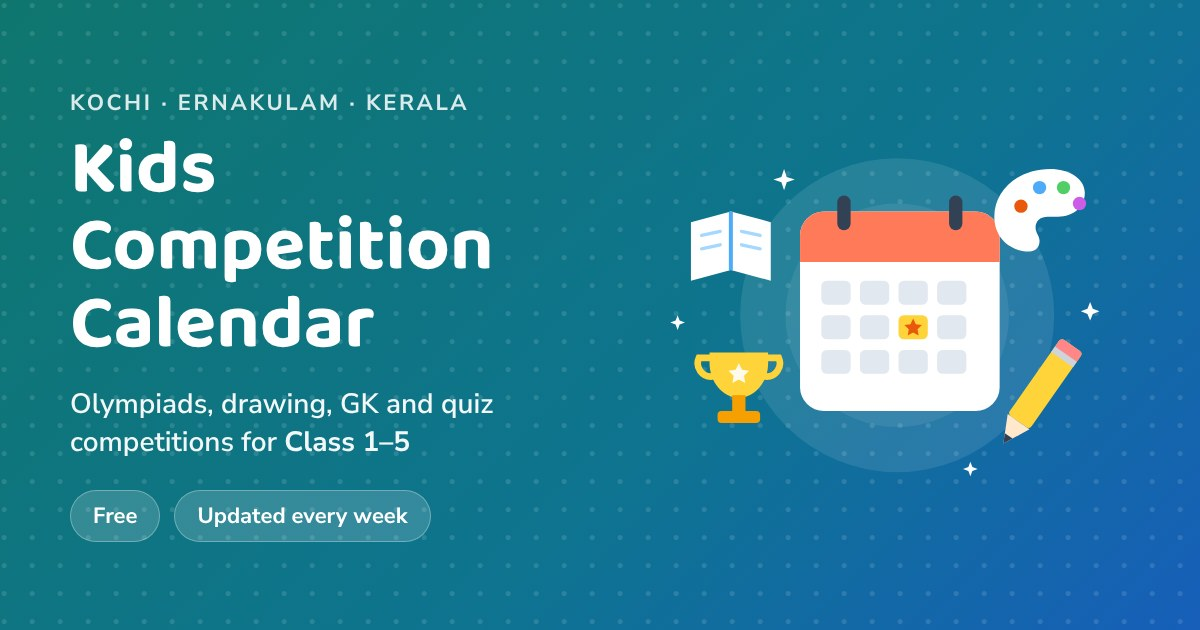
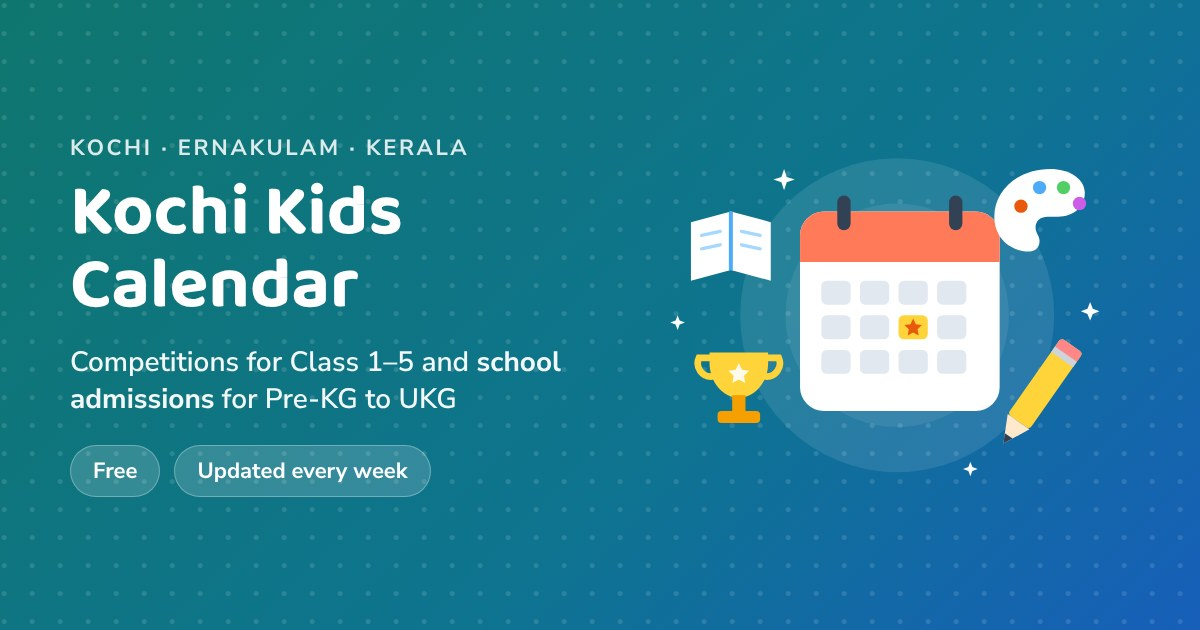
Rename site to Kochi Kids Calendar; separate link preview for admissions
- Site name shown as 'Kochi Kids Calendar' in a top bar on both pages;
  page headings are now 'Kids Competitions' and 'School Admissions'
- New og-image.jpg with the new name, and og-admissions.jpg (school
  picture, 'School Admissions in Kochi') used by admissions.html, so
  WhatsApp shows the right card for each page
- Titles, descriptions, footer, calendar/WhatsApp texts updated
- Repository and web address unchanged so shared links keep working
  (noted in README and CLAUDE.md)

Claude-Session: https://claude.ai/code/session_01GNwjeTZDbv7VsTgUQV2vTH

Changed region(s): [[0.0617, 0.2111, 0.4625, 0.8746], [0.0617, 0.1508, 0.4008, 0.181]]

diff --git a/index.html b/index.html
@@ -3,20 +3,20 @@
 <head>
   <meta charset="UTF-8">
   <meta name="viewport" content="width=device-width, initial-scale=1">
-  <title>Kids Competition Calendar – Kochi</title>
-  <meta name="description" content="Upcoming competitions for Class 1–5 students in Kochi, Kerala: Olympiads, scholarship tests, drawing, GK and quiz contests.">
+  <title>Kochi Kids Calendar – Competitions for Class 1–5</title>
+  <meta name="description" content="Kochi Kids Calendar: competitions for Class 1–5 (Olympiads, drawing, GK, quiz) and school admissions for Pre-KG to UKG in Kochi, Kerala.">
   <meta name="theme-color" content="#0f766e">
   <!-- Preview shown when the link is shared on WhatsApp, Facebook, Telegram etc. -->
   <meta property="og:type" content="website">
-  <meta property="og:site_name" content="Kids Competition Calendar">
-  <meta property="og:title" content="Kids Competition Calendar – Kochi">
-  <meta property="og:description" content="Olympiads, drawing, GK and quiz competitions for Class 1–5 in Kochi, with dates, fees and how to register. Free, updated every week.">
+  <meta property="og:site_name" content="Kochi Kids Calendar">
+  <meta property="og:title" content="Kochi Kids Calendar – Competitions for Class 1–5">
+  <meta property="og:description" content="Competitions for Class 1–5 and school admissions (Pre-KG to UKG) in Kochi — dates, fees, age rules and how to register. Free, updated every week.">
   <meta property="og:url" content="https://avinash-singh-1987.github.io/kids-competition-calendar/">
   <meta property="og:image" content="https://avinash-singh-1987.github.io/kids-competition-calendar/og-image.jpg">
   <meta property="og:image:type" content="image/jpeg">
   <meta property="og:image:width" content="1200">
   <meta property="og:image:height" content="630">
-  <meta property="og:image:alt" content="Kids Competition Calendar – Olympiads, drawing, GK and quiz competitions for Class 1–5 in Kochi">
+  <meta property="og:image:alt" content="Kochi Kids Calendar – competitions and school admissions for young children in Kochi">
   <meta name="twitter:card" content="summary_large_image">
   <link rel="preconnect" href="https://fonts.googleapis.com">
   <link rel="preconnect" href="https://fonts.gstatic.com" crossorigin>
@@ -26,13 +26,14 @@
 <body>
   <header class="hero">
     <nav class="wrap tabs" aria-label="Sections">
+      <a class="brand" href="./">Kochi Kids Calendar</a>
         <a href="./" aria-current="page">Competitions</a>
         <a href="admissions.html">School admissions</a>
     </nav>
     <div class="wrap hero-inner">
       <div class="hero-text">
         <p class="eyebrow">Kochi · Ernakulam · Kerala</p>
-        <h1>Kids Competition Calendar</h1>
+        <h1>Kids Competitions</h1>
         <p class="tagline">Olympiads, scholarship tests, drawing, GK and quiz competitions for <strong>Class 1–5</strong> — all in one place.</p>
         <ul class="hero-stats" aria-label="Summary">
           <li><span id="stat-total">–</span> competitions</li>
@@ -171,7 +172,7 @@
   <footer class="site-footer">
     <div class="wrap footer-inner">
       <div class="footer-icon" aria-hidden="true">✏</div>
-      <p>Kids Competition Calendar · A free guide for parents in Kochi, Kerala</p>
+      <p>Kochi Kids Calendar · A free guide for parents in Kochi, Kerala</p>
     </div>
   </footer>
 

diff --git a/admissions.html b/admissions.html
@@ -3,20 +3,20 @@
 <head>
   <meta charset="UTF-8">
   <meta name="viewport" content="width=device-width, initial-scale=1">
-  <title>School Admissions – Kochi | Kids Competition Calendar</title>
+  <title>School Admissions – Kochi Kids Calendar</title>
   <meta name="description" content="When do popular Kochi schools open Pre-KG, LKG and KG admissions, and what age rules apply? Check when your child can join.">
   <meta name="theme-color" content="#0f766e">
   <!-- Preview shown when the link is shared on WhatsApp, Facebook, Telegram etc. -->
   <meta property="og:type" content="website">
-  <meta property="og:site_name" content="Kids Competition Calendar">
-  <meta property="og:title" content="School Admissions – Kochi">
+  <meta property="og:site_name" content="Kochi Kids Calendar">
+  <meta property="og:title" content="School Admissions in Kochi – Pre-KG, LKG, UKG">
   <meta property="og:description" content="Admission months and age rules for popular Kochi schools, and a checker that tells you when your child can join. Free.">
   <meta property="og:url" content="https://avinash-singh-1987.github.io/kids-competition-calendar/admissions.html">
-  <meta property="og:image" content="https://avinash-singh-1987.github.io/kids-competition-calendar/og-image.jpg">
+  <meta property="og:image" content="https://avinash-singh-1987.github.io/kids-competition-calendar/og-admissions.jpg">
   <meta property="og:image:type" content="image/jpeg">
   <meta property="og:image:width" content="1200">
   <meta property="og:image:height" content="630">
-  <meta property="og:image:alt" content="Kids Competition Calendar – Olympiads, drawing, GK and quiz competitions for Class 1–5 in Kochi">
+  <meta property="og:image:alt" content="School Admissions – Kochi Kids Calendar: Pre-KG, LKG and UKG dates and age rules for popular Kochi schools">
   <meta name="twitter:card" content="summary_large_image">
   <link rel="preconnect" href="https://fonts.googleapis.com">
   <link rel="preconnect" href="https://fonts.gstatic.com" crossorigin>
@@ -26,6 +26,7 @@
 <body>
   <header class="hero">
     <nav class="wrap tabs" aria-label="Sections">
+      <a class="brand" href="./">Kochi Kids Calendar</a>
         <a href="./">Competitions</a>
         <a href="admissions.html" aria-current="page">School admissions</a>
     </nav>
@@ -33,7 +34,7 @@
       <div class="hero-text">
         <p class="eyebrow">Kochi · Ernakulam · Kerala</p>
         <h1>School Admissions</h1>
-        <p class="tagline">When do popular Kochi schools open <strong>Pre-KG, LKG and KG</strong> admissions, and what age does your child need to be?</p>
+        <p class="tagline">When do popular Kochi schools open <strong>Pre-KG, LKG and UKG</strong> admissions, and what age does your child need to be?</p>
         <ul class="hero-stats" aria-label="Summary">
           <li><span id="stat-schools">–</span> schools</li>
           <li><span id="stat-open">–</span> open or opening soon</li>
@@ -163,7 +164,7 @@
   <footer class="site-footer">
     <div class="wrap footer-inner">
       <div class="footer-icon" aria-hidden="true">✏</div>
-      <p>Kids Competition Calendar · A free guide for parents in Kochi, Kerala</p>
+      <p>Kochi Kids Calendar · A free guide for parents in Kochi, Kerala</p>
     </div>
   </footer>
 

diff --git a/script.js b/script.js
@@ -1,4 +1,4 @@
-// Kids Competition Calendar
+// Kochi Kids Calendar – competitions page
 // Reads competitions.json, then shows upcoming deadlines/exams and the filtered list.
 // You should not need to edit this file to add competitions — edit competitions.json.
 
@@ -171,7 +171,7 @@ function calendarUrl(c) {
   lines.push("Register by: " + registerByText(c));
   if (c.unverified) lines.push("Dates not yet confirmed — please check with your school or the organiser.");
   if (safeLink(c.link)) lines.push("More info: " + c.link);
-  lines.push("Kids Competition Calendar: " + pageUrl(c));
+  lines.push("Kochi Kids Calendar: " + pageUrl(c));
   const params = new URLSearchParams({
     action: "TEMPLATE",
     text: (ev.kind === "exam" ? "" : "Last day to register: ") + c.name,

diff --git a/admissions.js b/admissions.js
@@ -143,7 +143,7 @@ function reminderUrl(s, when, title) {
     action: "TEMPLATE",
     text: title,
     dates: ymd(when) + "/" + ymd(end),
-    details: `${s.school} (${s.area}) usually opens admissions around this month. Check the school's notice: ${s.link}\n\nKids Competition Calendar: ${location.origin + location.pathname}#${slugify(s.school)}`,
+    details: `${s.school} (${s.area}) usually opens admissions around this month. Check the school's notice: ${s.link}\n\nKochi Kids Calendar: ${location.origin + location.pathname}#${slugify(s.school)}`,
   });
   return "https://calendar.google.com/calendar/render?" + params.toString();
 }

diff --git a/style.css b/style.css
@@ -386,6 +386,17 @@ h1, h2, h3 { font-family: var(--heading-font); line-height: 1.2; }
   border-radius: 999px;
   border: 1px solid rgba(255, 255, 255, 0.35);
 }
+.tabs a.brand {
+  border: none;
+  padding: 7px 4px;
+  margin-right: auto;
+  font-family: var(--heading-font);
+  font-size: 1.1rem;
+}
+.tabs a.brand:hover { background: none; }
+@media (max-width: 759px) {
+  .tabs a.brand { flex-basis: 100%; padding: 0 2px 4px; }
+}
 .tabs a[aria-current="page"] { background: #fff; color: var(--primary-dark); border-color: #fff; }
 .tabs a:not([aria-current]):hover { background: rgba(255, 255, 255, 0.15); }
 

diff --git a/CLAUDE.md b/CLAUDE.md
@@ -16,6 +16,8 @@
    → "Confirm merge".
 
 ## About the site
+- The site is called **Kochi Kids Calendar** (renamed Nov 2026). Do NOT rename the repository:
+  the GitHub Pages address depends on it and shared links would break.
 - Plain HTML/CSS/JS, hosted on GitHub Pages from `main`.
 - All competition data is in `competitions.json`; see README.md for the fields.
 - Never add competition dates as confirmed unless they come from an official source
@@ -23,7 +25,8 @@
 - Every new entry gets `source` (URL where it was found), `sourceType`
   (official/news/blog) and `addedOn` (today's date); set `updatedOn` when dates change.
 - Set `individual` ("yes"/"no"/"ask") only from what the source says; use "ask" if unclear.
-- `og-image.jpg` is the link-preview picture for WhatsApp etc.; keep it under 300 KB.
+- Link-preview pictures (WhatsApp etc.): `og-image.jpg` (home/competitions) and
+  `og-admissions.jpg` (admissions page), 1200x630 JPEG, keep each under 300 KB.
 - Visitor counter: GoatCounter, site code `kochikidscalendar`
   (dashboard https://kochikidscalendar.goatcounter.com). Button clicks are counted as
   events `click-whatsapp`, `click-calendar`, `click-official-link`.

diff --git a/README.md b/README.md
@@ -1,4 +1,7 @@
-# Kids Competition Calendar – Kochi
+# Kochi Kids Calendar
+
+Competitions and school admissions for young children in Kochi, Kerala.
+(Repository and web address keep the old name `kids-competition-calendar` so shared links keep working.)
 
 A simple website for parents in Kochi, Kerala, listing upcoming competitions for
 Class 1–5 students: Olympiads, scholarship tests, and local drawing, GK and quiz contests.
